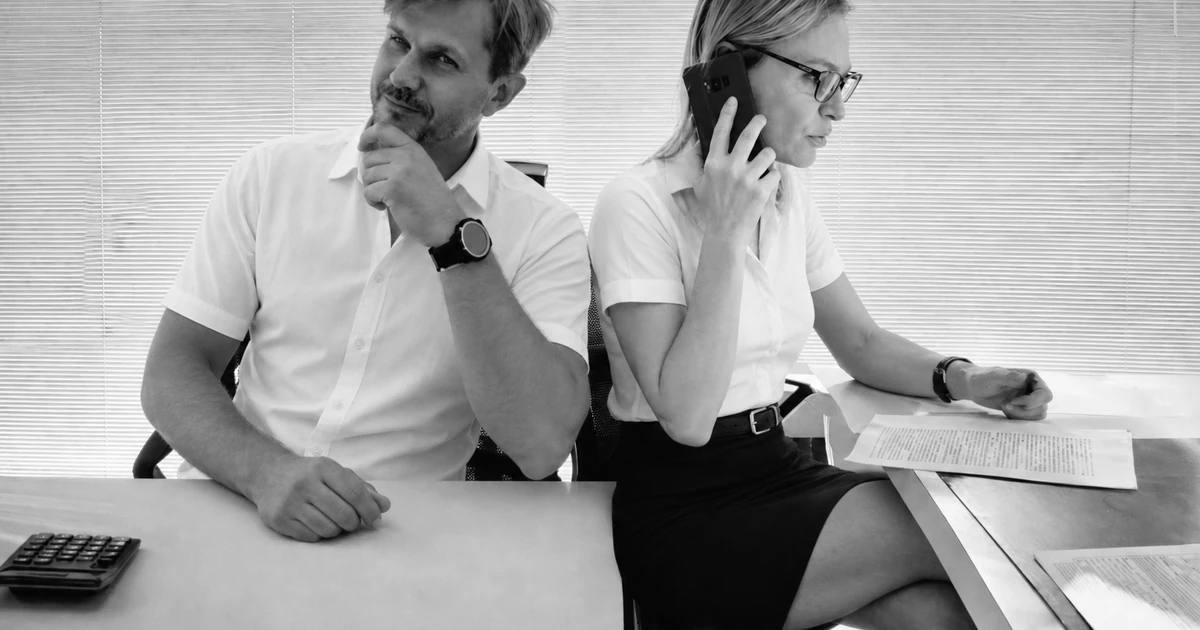
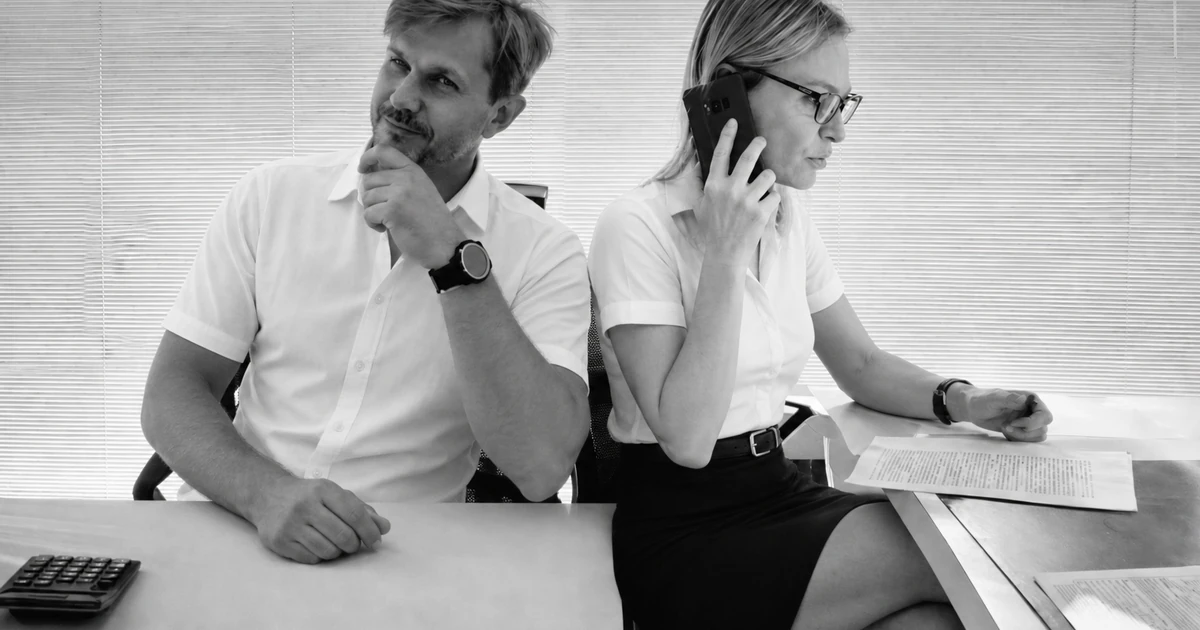
Home: hero estate responsive desktop + mobile (stessa foto, abiti estivi)
- Picture: desktop 1200x630, mobile 900x1350 con crop su entrambi i volti
- Preload separato per breakpoint
- Ripristino: titolari.webp

diff --git a/index.html b/index.html
@@ -12,7 +12,8 @@
 <link rel="preload" href="fonts/montserrat-700.woff2" as="font" type="font/woff2" crossorigin>
 <link rel="preload" href="fonts/montserrat-800.woff2" as="font" type="font/woff2" crossorigin>
 <link rel="preload" href="fonts/cormorant-garamond-700.woff2" as="font" type="font/woff2" crossorigin>
-<link rel="preload" href="img/team/titolari.webp" as="image" type="image/webp" fetchpriority="high">
+<link rel="preload" href="img/team/titolari-estate-abbigliamento-2026.webp" as="image" type="image/webp" media="(min-width: 769px)" fetchpriority="high">
+<link rel="preload" href="img/team/titolari-estate-abbigliamento-2026-mobile.webp" as="image" type="image/webp" media="(max-width: 768px)" fetchpriority="high">
 <meta name="google-site-verification" content="AbK7L5qoV9UFcfjQmtpC5OmD1ZsHx_55NNGYjxlOSxw">
 <meta name="theme-color" content="#2C4A6E">
 <meta name="robots" content="index, follow, max-image-preview:large">
@@ -22,13 +23,13 @@
 <meta property="og:url" content="https://righettoimmobiliare.it/">
 <meta property="og:site_name" content="Righetto Immobiliare">
 <meta property="og:locale" content="it_IT">
-<meta property="og:image" content="https://righettoimmobiliare.it/img/team/titolari.webp">
+<meta property="og:image" content="https://righettoimmobiliare.it/img/team/titolari-estate-abbigliamento-2026.webp">
 <meta property="og:image:width" content="1200">
 <meta property="og:image:height" content="630">
 <meta name="twitter:card" content="summary_large_image">
 <meta name="twitter:title" content="Vendere e Comprare Casa a Padova | Righetto Immobiliare">
 <meta name="twitter:description" content="Assistenza completa per vendere e comprare casa a Padova e provincia. Dalla valutazione gratuita al rogito, un unico referente per tutti i 101 comuni.">
-<meta name="twitter:image" content="https://righettoimmobiliare.it/img/team/titolari.webp">
+<meta name="twitter:image" content="https://righettoimmobiliare.it/img/team/titolari-estate-abbigliamento-2026.webp">
 <link rel="canonical" href="https://righettoimmobiliare.it/">
 <link rel="stylesheet" href="css/fonts.css?v=3" media="print" onload="this.media='all'">
 <link rel="stylesheet" href="css/nav-mobile.css?v=5" media="print" onload="this.media='all'">
@@ -343,6 +344,9 @@ button{font-family:inherit;cursor:pointer}
   position: absolute; inset: 0; z-index: 0;
   overflow: hidden;
 }
+#hero-bg picture {
+  display: block; width: 100%; height: 100%;
+}
 #hero-bg img {
   width: 100%; height: 100%;
   object-fit: cover; object-position: center 20%;
@@ -518,7 +522,8 @@ button{font-family:inherit;cursor:pointer}
   #evidenza,#servizi,#perche,#mutuo-hp,#stima,#blog,#faq-hp,#form-contatto,footer{padding-left:20px;padding-right:20px}
   .hero-inner{grid-template-columns:1fr;padding:0 20px;padding-top:calc(var(--nav-h) + 44px);padding-bottom:88px}
   .hero-right{display:none}
-  #hero-bg img{object-position:center 20%}
+  #hero-bg img,
+  #hero-bg picture img{object-position:center 18%}
   /* Titolo hero mobile: un gradino più grande (righe + “Ci pensiamo noi.”) */
   .hero-h1{font-size:clamp(2.05rem,8.4vw,3rem);line-height:1.22}
   .hero-h1 .ghost{margin-top:0.22em;line-height:1.36;font-size:1.07em;-webkit-text-stroke:1.3px rgba(255,255,255,0.52)}
@@ -927,7 +932,13 @@ button svg, a.btn-p svg, a.btn-g svg {
 
 <!-- HERO -->
 <section id="hero">
-  <div id="hero-bg"><img src="img/team/titolari.webp" alt="Righetto Immobiliare Padova" width="1200" height="630" fetchpriority="high"></div>
+  <!-- Hero estate: desktop 16:9 + mobile portrait (entrambi i volti). Ripristino: titolari.webp -->
+  <div id="hero-bg">
+    <picture>
+      <source media="(max-width: 768px)" srcset="img/team/titolari-estate-abbigliamento-2026-mobile.webp" type="image/webp" width="900" height="1350">
+      <img src="img/team/titolari-estate-abbigliamento-2026.webp" alt="Gino Capon e Linda Righetto — Righetto Immobiliare" width="1200" height="630" fetchpriority="high">
+    </picture>
+  </div>
   <div class="hero-veil"></div>
   <div class="hero-grain"></div>
   <div class="hero-inner">
